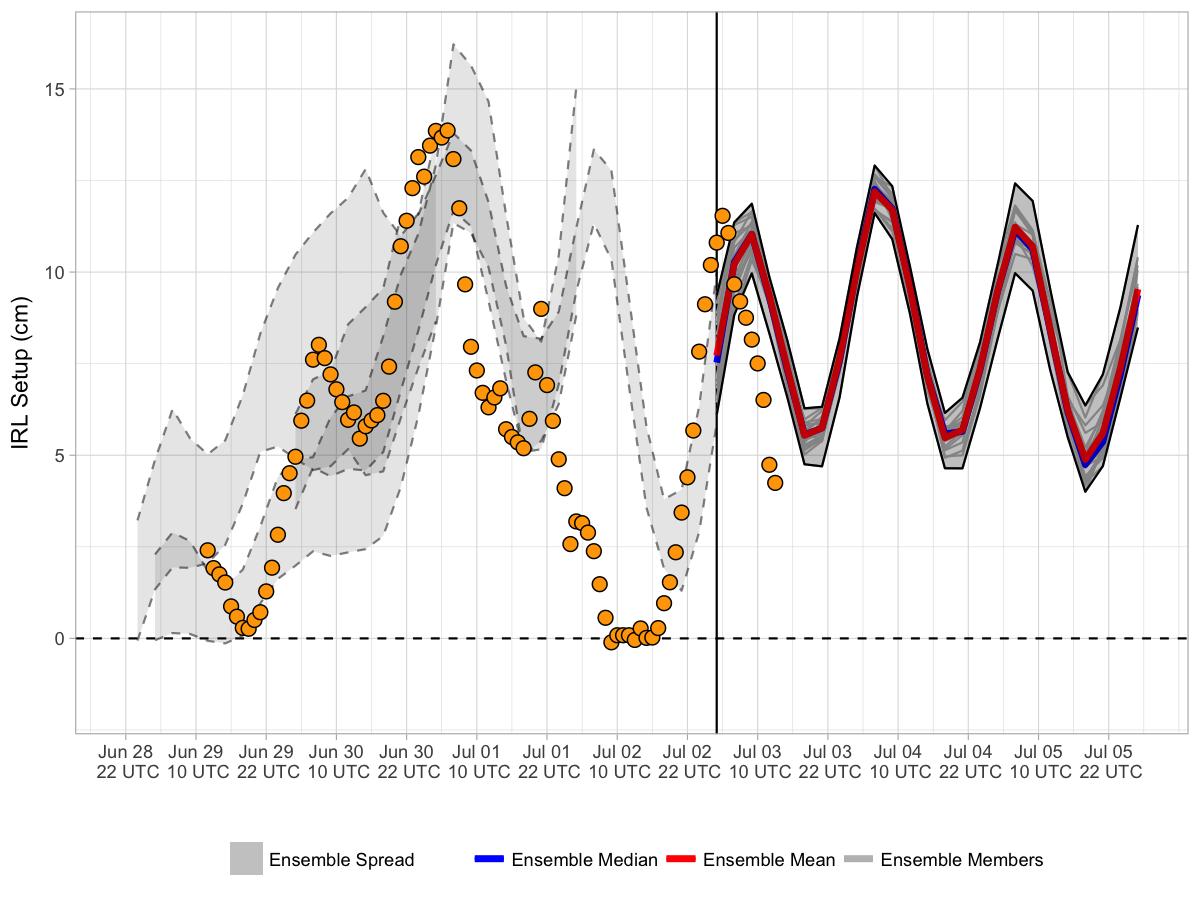
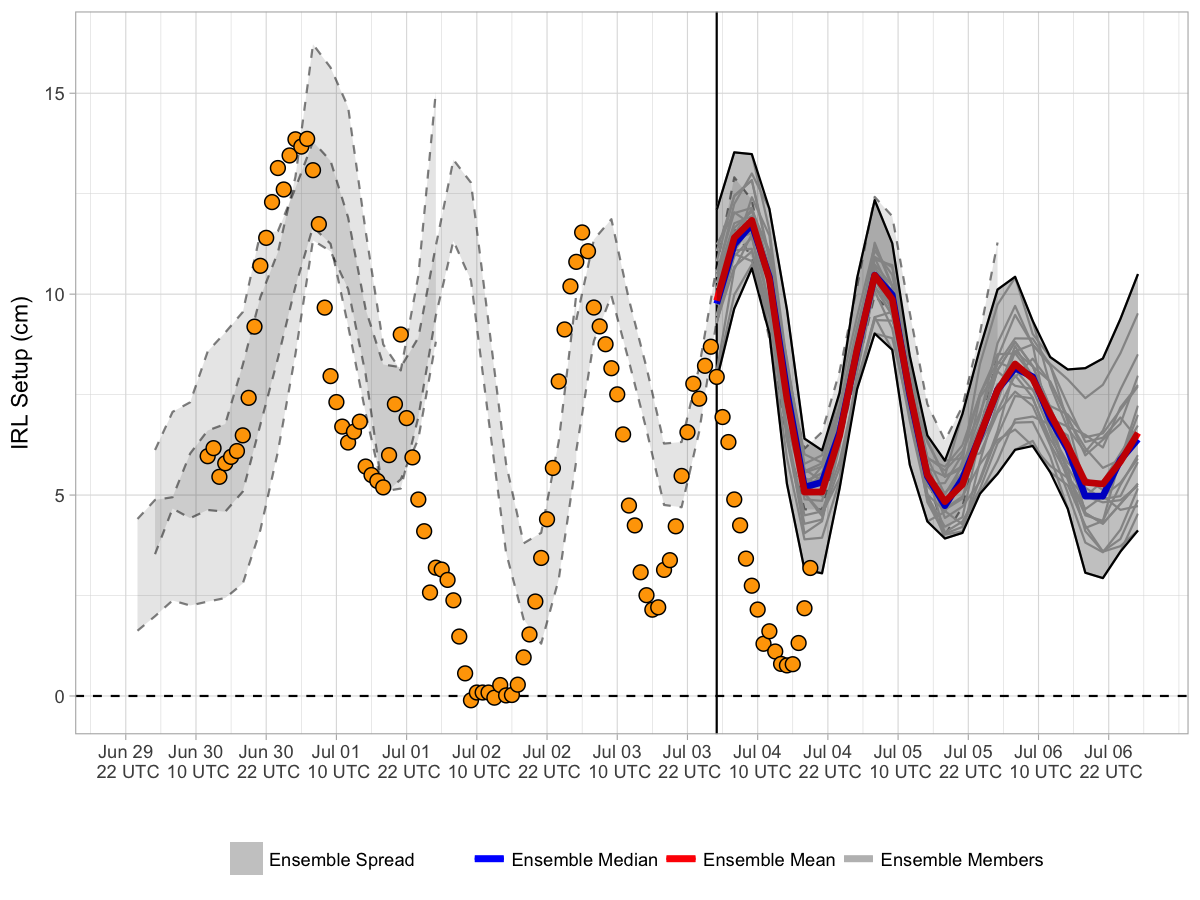
20170704 forecast update

diff --git a/docs/index.md b/docs/index.md
@@ -3,7 +3,7 @@ Current Forecast
 
 [![](img/raw_setup.png)](https://bhlmn.github.io/IRLSetup/img/raw_setup.png)
 
-> Forecast valid 2017-07-03 10:21:29.
+> Forecast valid 2017-07-04 16:11:57.
 
 Explanation
 -----------
@@ -17,7 +17,7 @@ star), and Sebastian, FL (white star). In general, southerly (northerly)
 winds result in increased water elevation near Titusville (Sebastian)
 and positive (negative) setup.
 
-The current (18 UTC 2017-07-02) 0.5° [Global Ensemble Forecast System
+The current (18 UTC 2017-07-03) 0.5° [Global Ensemble Forecast System
 (GEFS)](https://www.ncdc.noaa.gov/data-access/model-data/model-datasets/global-ensemble-forecast-system-gefs)
 mean and median forecasts of setup are represented by the red and blue
 curves, respectively. Ensemble spread from the current and three
